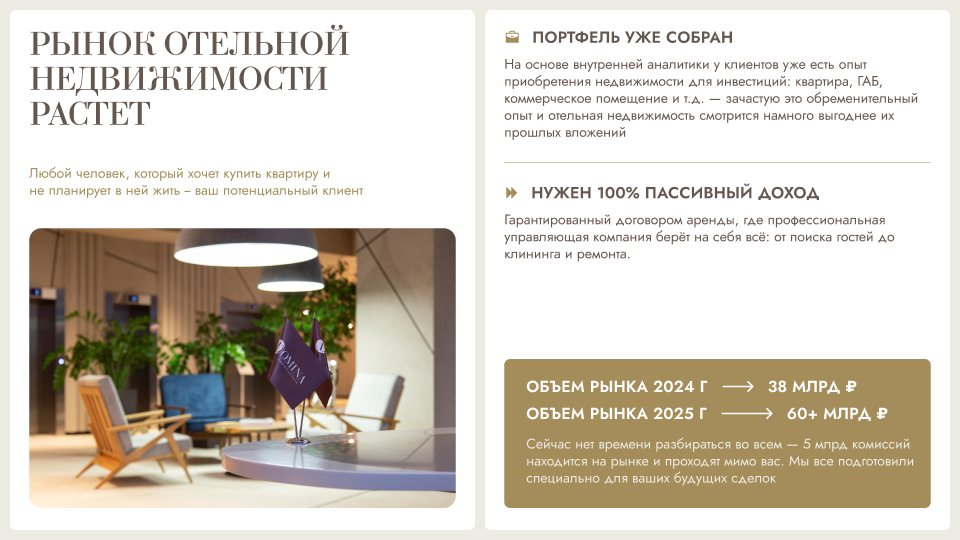
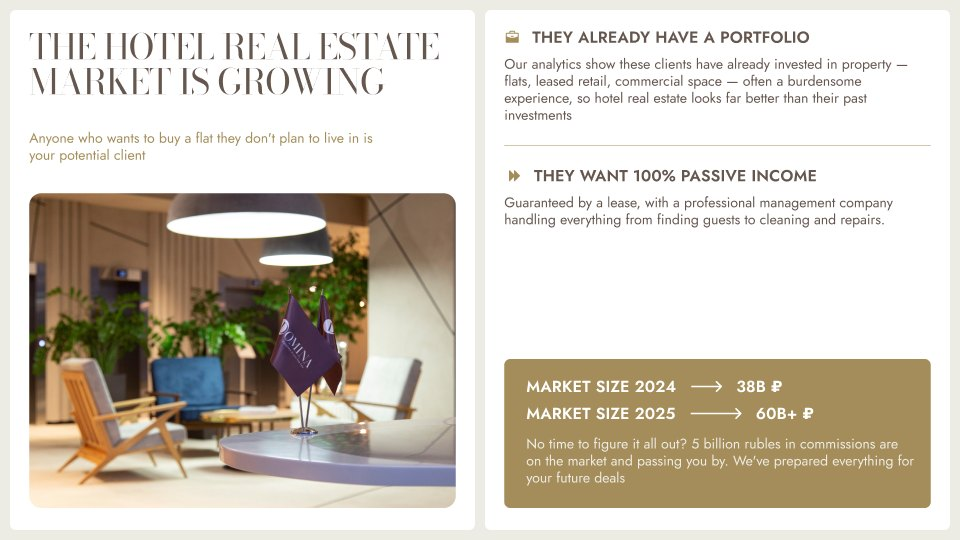
Domina case: English social posts, stories, guidelines and deck slides
Claude-Session: https://claude.ai/code/session_01CvcxoMTCpv2boHEkqs8H7c

Changed region(s): [[0.0312, 0.0296, 0.9375, 0.9185], [0.5312, 0.6815, 0.9688, 0.9185], [0.5312, 0.0593, 0.9688, 0.2667]]

diff --git a/case-studies/domina.html b/case-studies/domina.html
@@ -401,22 +401,22 @@
       <h2 class="cs-section-title cs-section-title--dark" data-ru="Сторис и посты: Bodoni для эмоций, цифры — крупно">Stories and posts: Bodoni for emotion, numbers set large</h2>
       <p class="dm-lead dm-lead--dark" data-ru="Собрала гайдлайны (лого, цвета, шрифты, паттерн, пиктограммы) и три серии: имиджевая серия Domina Invest, сторис по проектам «Северный порт» и ЖК «Мира», сетка Instagram с полезным контентом для агентов — например, «5 возражений клиентов и как на них отвечать». Агенты-партнёры используют эти материалы в своих соцсетях.">I assembled guidelines (logo, colours, type, pattern, pictograms) and three series: the Domina Invest image series, project stories for Severny Port and Mira, and an Instagram grid with useful content for real estate brokers — e.g. “5 client objections and how to answer them”. Partner real estate brokers reuse these assets in their own channels.</p>
       <div class="dm-stories">
-        <img src="../assets/img/case-studies/domina/story-01.jpg" alt="Story: passive income 15% a year" loading="lazy">
-        <img src="../assets/img/case-studies/domina/story-02.jpg" alt="Story: a room in a 5-star Domina hotel" loading="lazy">
-        <img src="../assets/img/case-studies/domina/story-04.jpg" alt="Story: 15% yield" loading="lazy">
-        <img src="../assets/img/case-studies/domina/story-07.jpg" alt="Story: room floor plan" loading="lazy">
-        <img src="../assets/img/case-studies/domina/story-port-01.jpg" alt="Story: river view residential complex" loading="lazy">
-        <img src="../assets/img/case-studies/domina/story-mira-04.jpg" alt="Story: 10 minutes to VDNKh" loading="lazy">
+        <img src="../assets/img/case-studies/domina/story-01.jpg?v=en" alt="Story: passive income 15% a year" loading="lazy">
+        <img src="../assets/img/case-studies/domina/story-02.jpg?v=en" alt="Story: a room in a 5-star Domina hotel" loading="lazy">
+        <img src="../assets/img/case-studies/domina/story-04.jpg?v=en" alt="Story: 15% yield" loading="lazy">
+        <img src="../assets/img/case-studies/domina/story-07.jpg?v=en" alt="Story: room floor plan" loading="lazy">
+        <img src="../assets/img/case-studies/domina/story-port-01.jpg?v=en" alt="Story: river view residential complex" loading="lazy">
+        <img src="../assets/img/case-studies/domina/story-mira-04.jpg?v=en" alt="Story: 10 minutes to VDNKh" loading="lazy">
       </div>
       <div class="dm-social-row">
         <div class="dm-ig">
-          <img src="../assets/img/case-studies/domina/ig-03.jpg" alt="Instagram post: Domina hotels, 15% yield" loading="lazy">
-          <img src="../assets/img/case-studies/domina/ig-05.jpg" alt="Instagram post: 5 client objections" loading="lazy">
-          <img src="../assets/img/case-studies/domina/ig-06.jpg" alt="Instagram post: your room in a 5-star hotel" loading="lazy">
-          <img src="../assets/img/case-studies/domina/ig-07.jpg" alt="Instagram post: flats with terraces" loading="lazy">
-          <img src="../assets/img/case-studies/domina/ig-01.jpg" alt="Instagram post: river view complex" loading="lazy">
+          <img src="../assets/img/case-studies/domina/ig-03.jpg?v=en" alt="Instagram post: Domina hotels, 15% yield" loading="lazy">
+          <img src="../assets/img/case-studies/domina/ig-05.jpg?v=en" alt="Instagram post: 5 client objections" loading="lazy">
+          <img src="../assets/img/case-studies/domina/ig-06.jpg?v=en" alt="Instagram post: your room in a 5-star hotel" loading="lazy">
+          <img src="../assets/img/case-studies/domina/ig-07.jpg?v=en" alt="Instagram post: flats with terraces" loading="lazy">
+          <img src="../assets/img/case-studies/domina/ig-01.jpg?v=en" alt="Instagram post: river view complex" loading="lazy">
         </div>
-        <figure class="dm-guidelines"><img src="../assets/img/case-studies/domina/brand-guidelines.jpg" alt="Domina social media guidelines: logo, colours, fonts, elements" loading="lazy"></figure>
+        <figure class="dm-guidelines"><img src="../assets/img/case-studies/domina/brand-guidelines.jpg?v=en" alt="Domina social media guidelines: logo, colours, fonts, elements" loading="lazy"></figure>
       </div>
     </div>
   </section>
@@ -448,10 +448,10 @@
       <p class="dm-lead" data-ru="Три персональные версии под конкретных руководителей агентств. Логика: почему старая модель «квартира под аренду» больше не работает → рынок отельной недвижимости растёт → почему Domina → как работает платформа → награды и реферальная сеть.">Three personalised versions for specific agency heads. The story: why “buy a flat to rent” no longer works → the hotel real-estate market is growing → why Domina → how the platform works → rewards and the referral network.</p>
     </div>
     <div class="dm-deck-grid">
-      <img src="../assets/img/case-studies/domina/deck-01.jpg" alt="Deck slide: from 1,400,000 ₽ per deal" loading="lazy">
-      <img src="../assets/img/case-studies/domina/deck-03.jpg" alt="Deck slide: the old model doesn't work" loading="lazy">
-      <img src="../assets/img/case-studies/domina/deck-04.jpg" alt="Deck slide: the hotel real-estate market is growing" loading="lazy">
-      <img src="../assets/img/case-studies/domina/deck-02.jpg" alt="Deck slide: Domina number one hotel operator by 2030" loading="lazy">
+      <img src="../assets/img/case-studies/domina/deck-01.jpg?v=en" alt="Deck slide: from 1,400,000 ₽ per deal" loading="lazy">
+      <img src="../assets/img/case-studies/domina/deck-03.jpg?v=en" alt="Deck slide: the old model doesn't work" loading="lazy">
+      <img src="../assets/img/case-studies/domina/deck-04.jpg?v=en" alt="Deck slide: the hotel real-estate market is growing" loading="lazy">
+      <img src="../assets/img/case-studies/domina/deck-02.jpg?v=en" alt="Deck slide: Domina number one hotel operator by 2030" loading="lazy">
     </div>
   </section>
 
